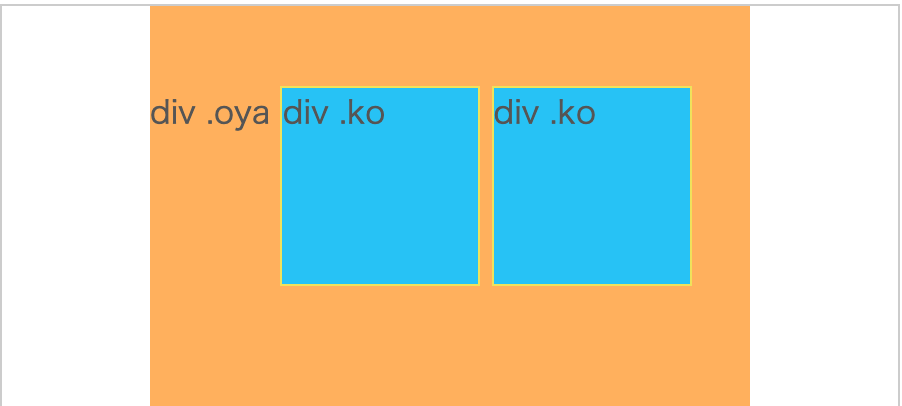
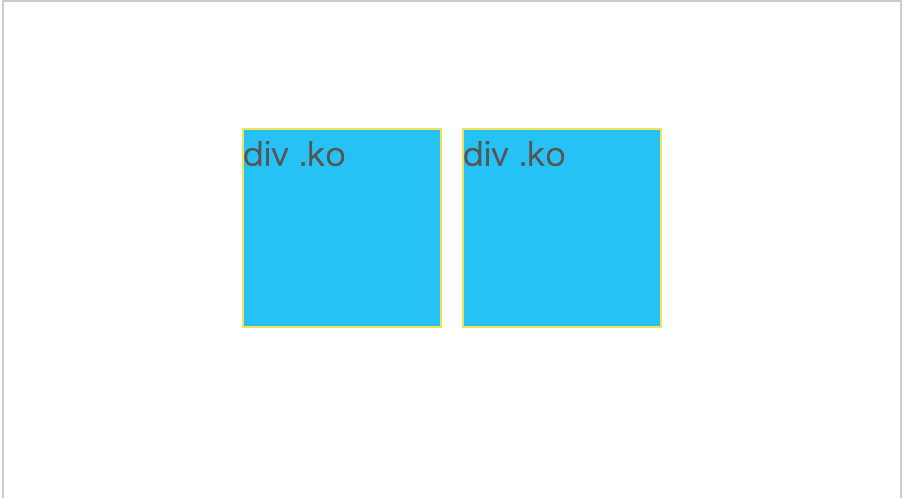
add font

diff --git a/index.html b/index.html
@@ -2,6 +2,8 @@
 <html lang="ja">
 <head>
   <meta charset="UTF-8">
+  <link rel="preconnect" href="https://fonts.gstatic.com">
+<link href="https://fonts.googleapis.com/css2?family=Cairo:wght@600&display=swap" rel="stylesheet">
   <link rel="stylesheet" href="style.css">
   <title>HTML/CSS Labo</title>
 </head>
@@ -170,10 +172,10 @@
       <h2 class="content-title">実装方法を選ぶ</h2>
       <div class="content-box">
         <div class="test">
-          <div class="oya">div .oya
+          
             <div class="ko">div .ko</div>
             <div class="ko">div .ko</div>
-          </div>
+         
         </div>
         <div class="text">
           <p>発展 下図のようなデザインにしましょう。</p>

diff --git a/style.css b/style.css
@@ -15,8 +15,10 @@ h3 {
 
 .header {
   border-bottom: 1px solid #dbdbdb;
-  padding: 20px;
+  padding: 5px;
   text-align: center;
+  font-family: 'Cairo', sans-serif;
+  font-size: 20px;
 }
 
 .main {
@@ -159,10 +161,6 @@ span {
     background-size: contain;
 */
 
-.oya {
-  background: #fdb057;
-  width: 300px;
-}
 
 .ko {
   width: 100px;
@@ -171,7 +169,10 @@ span {
 }
 
 /*
+
 .oya {
+  background: #fdb057;
+  width: 300px;
   margin: 0 auto;
   height: 200px;
 }
